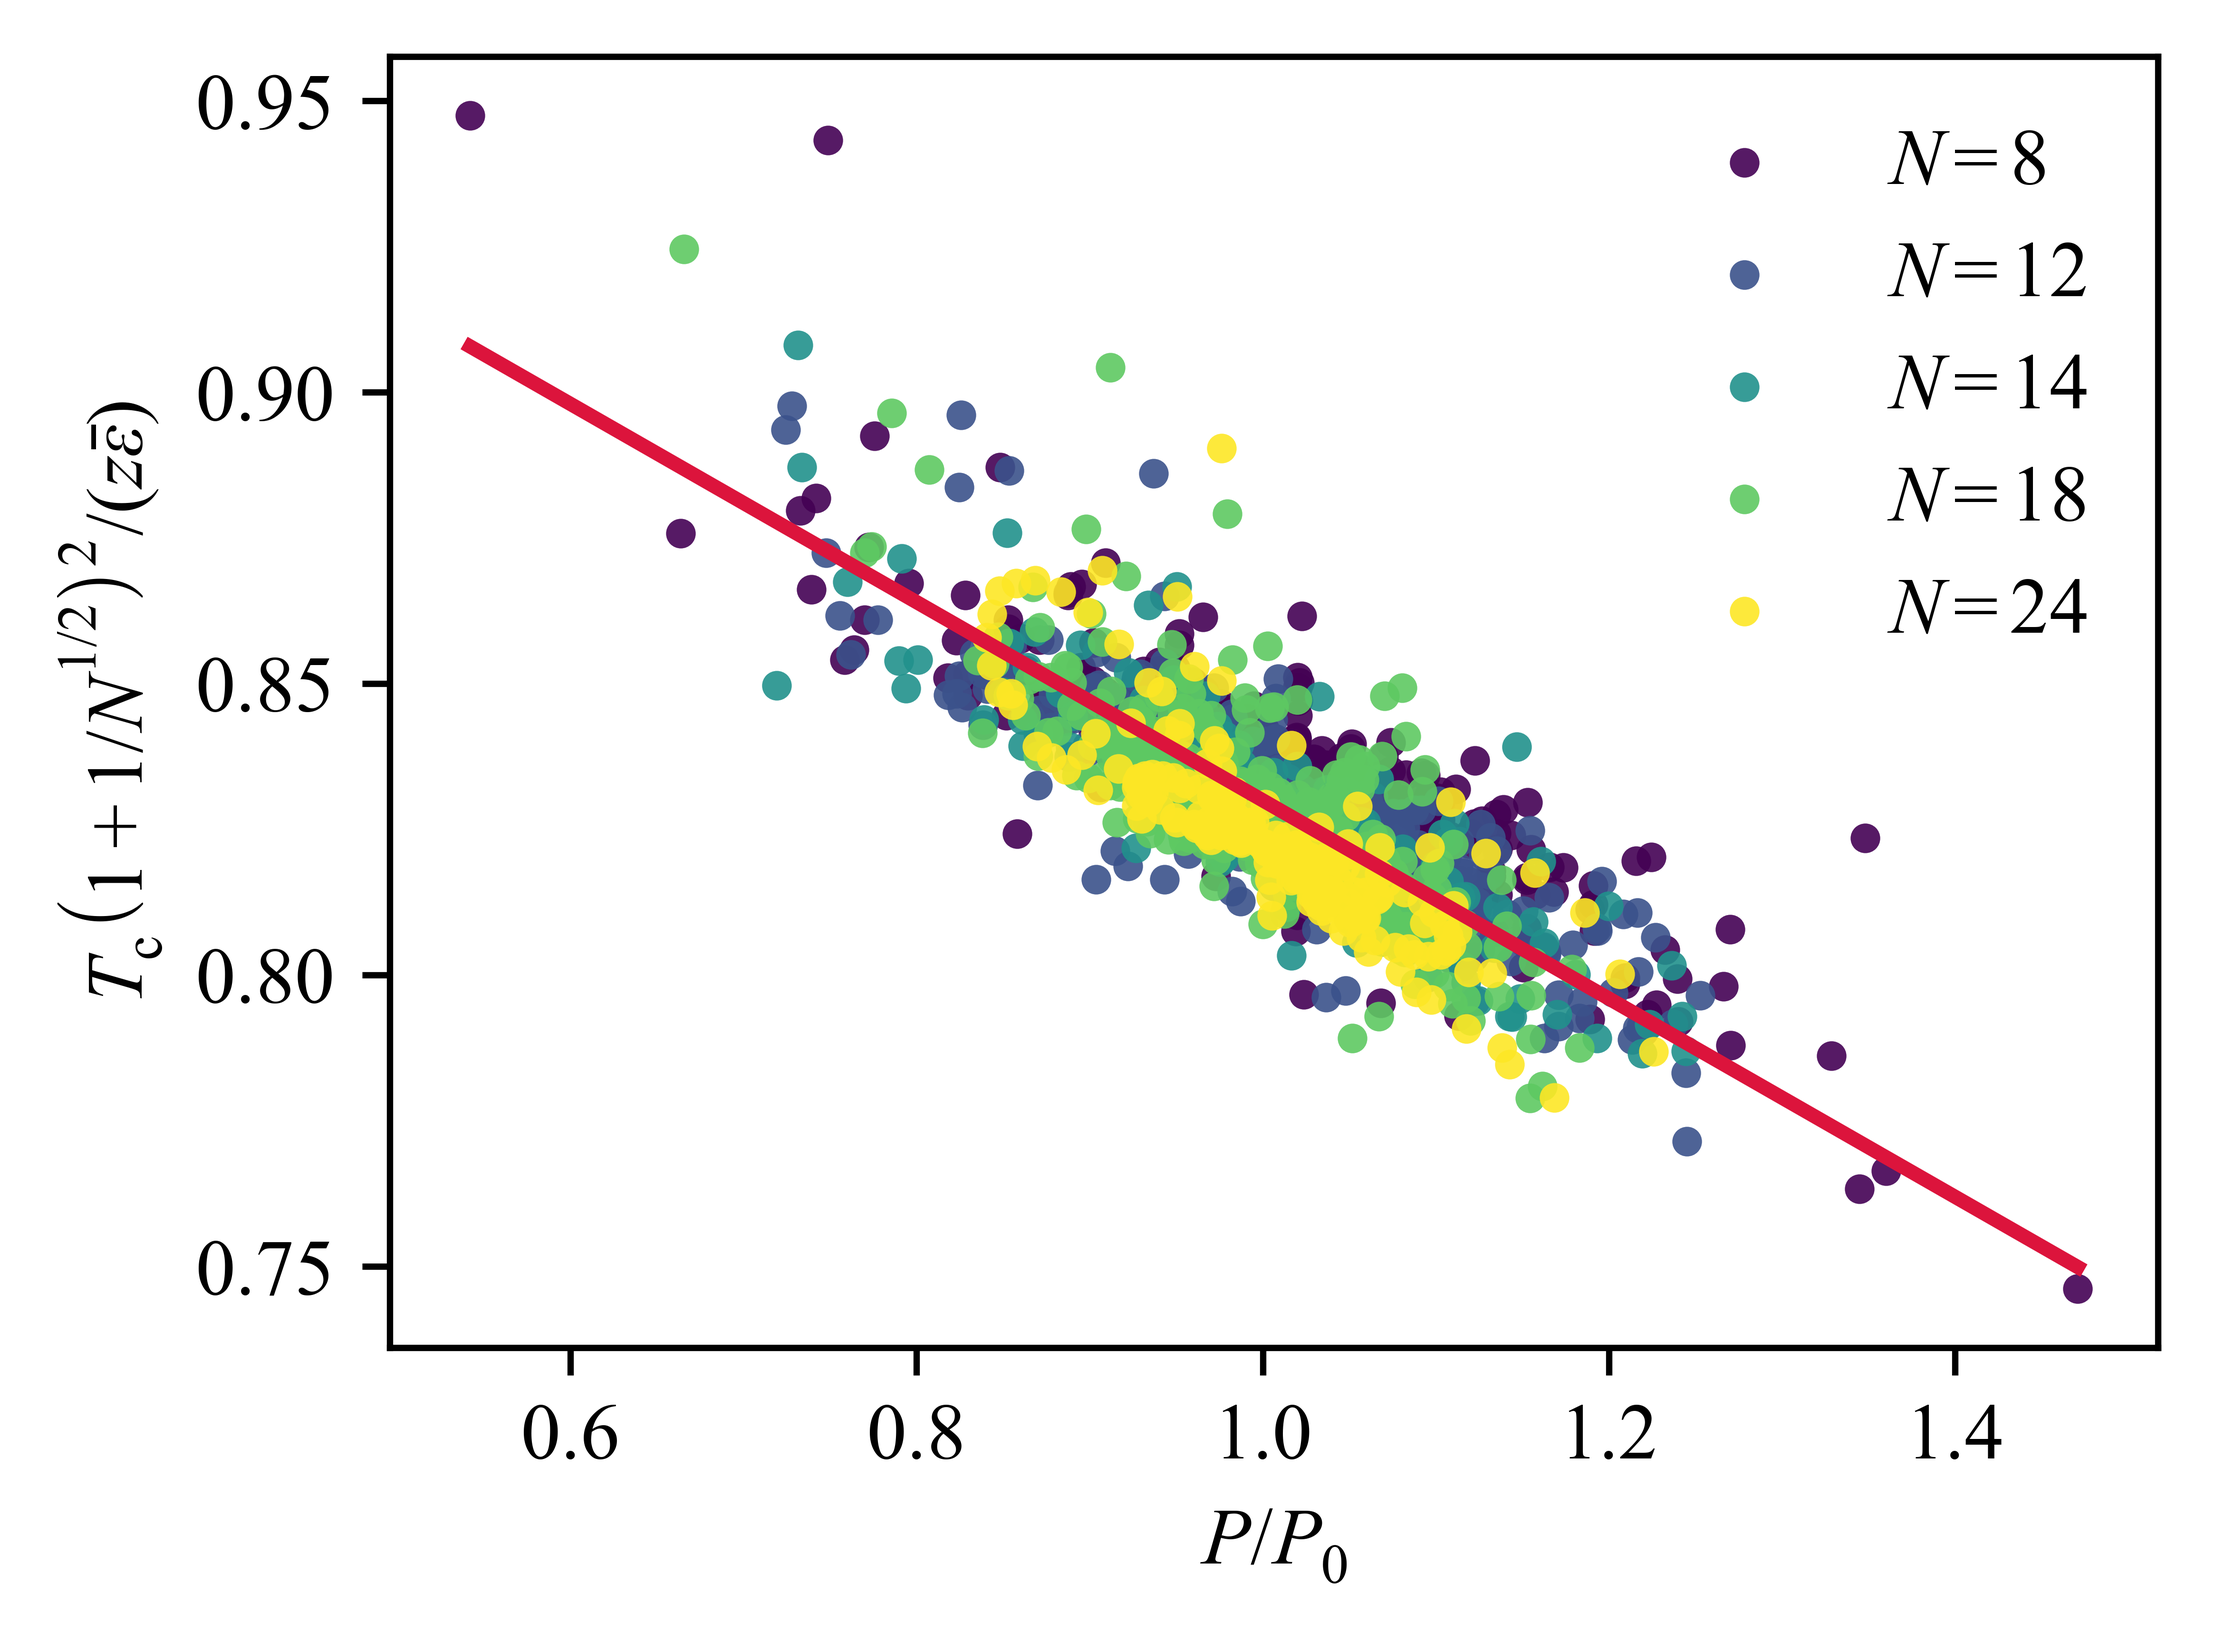
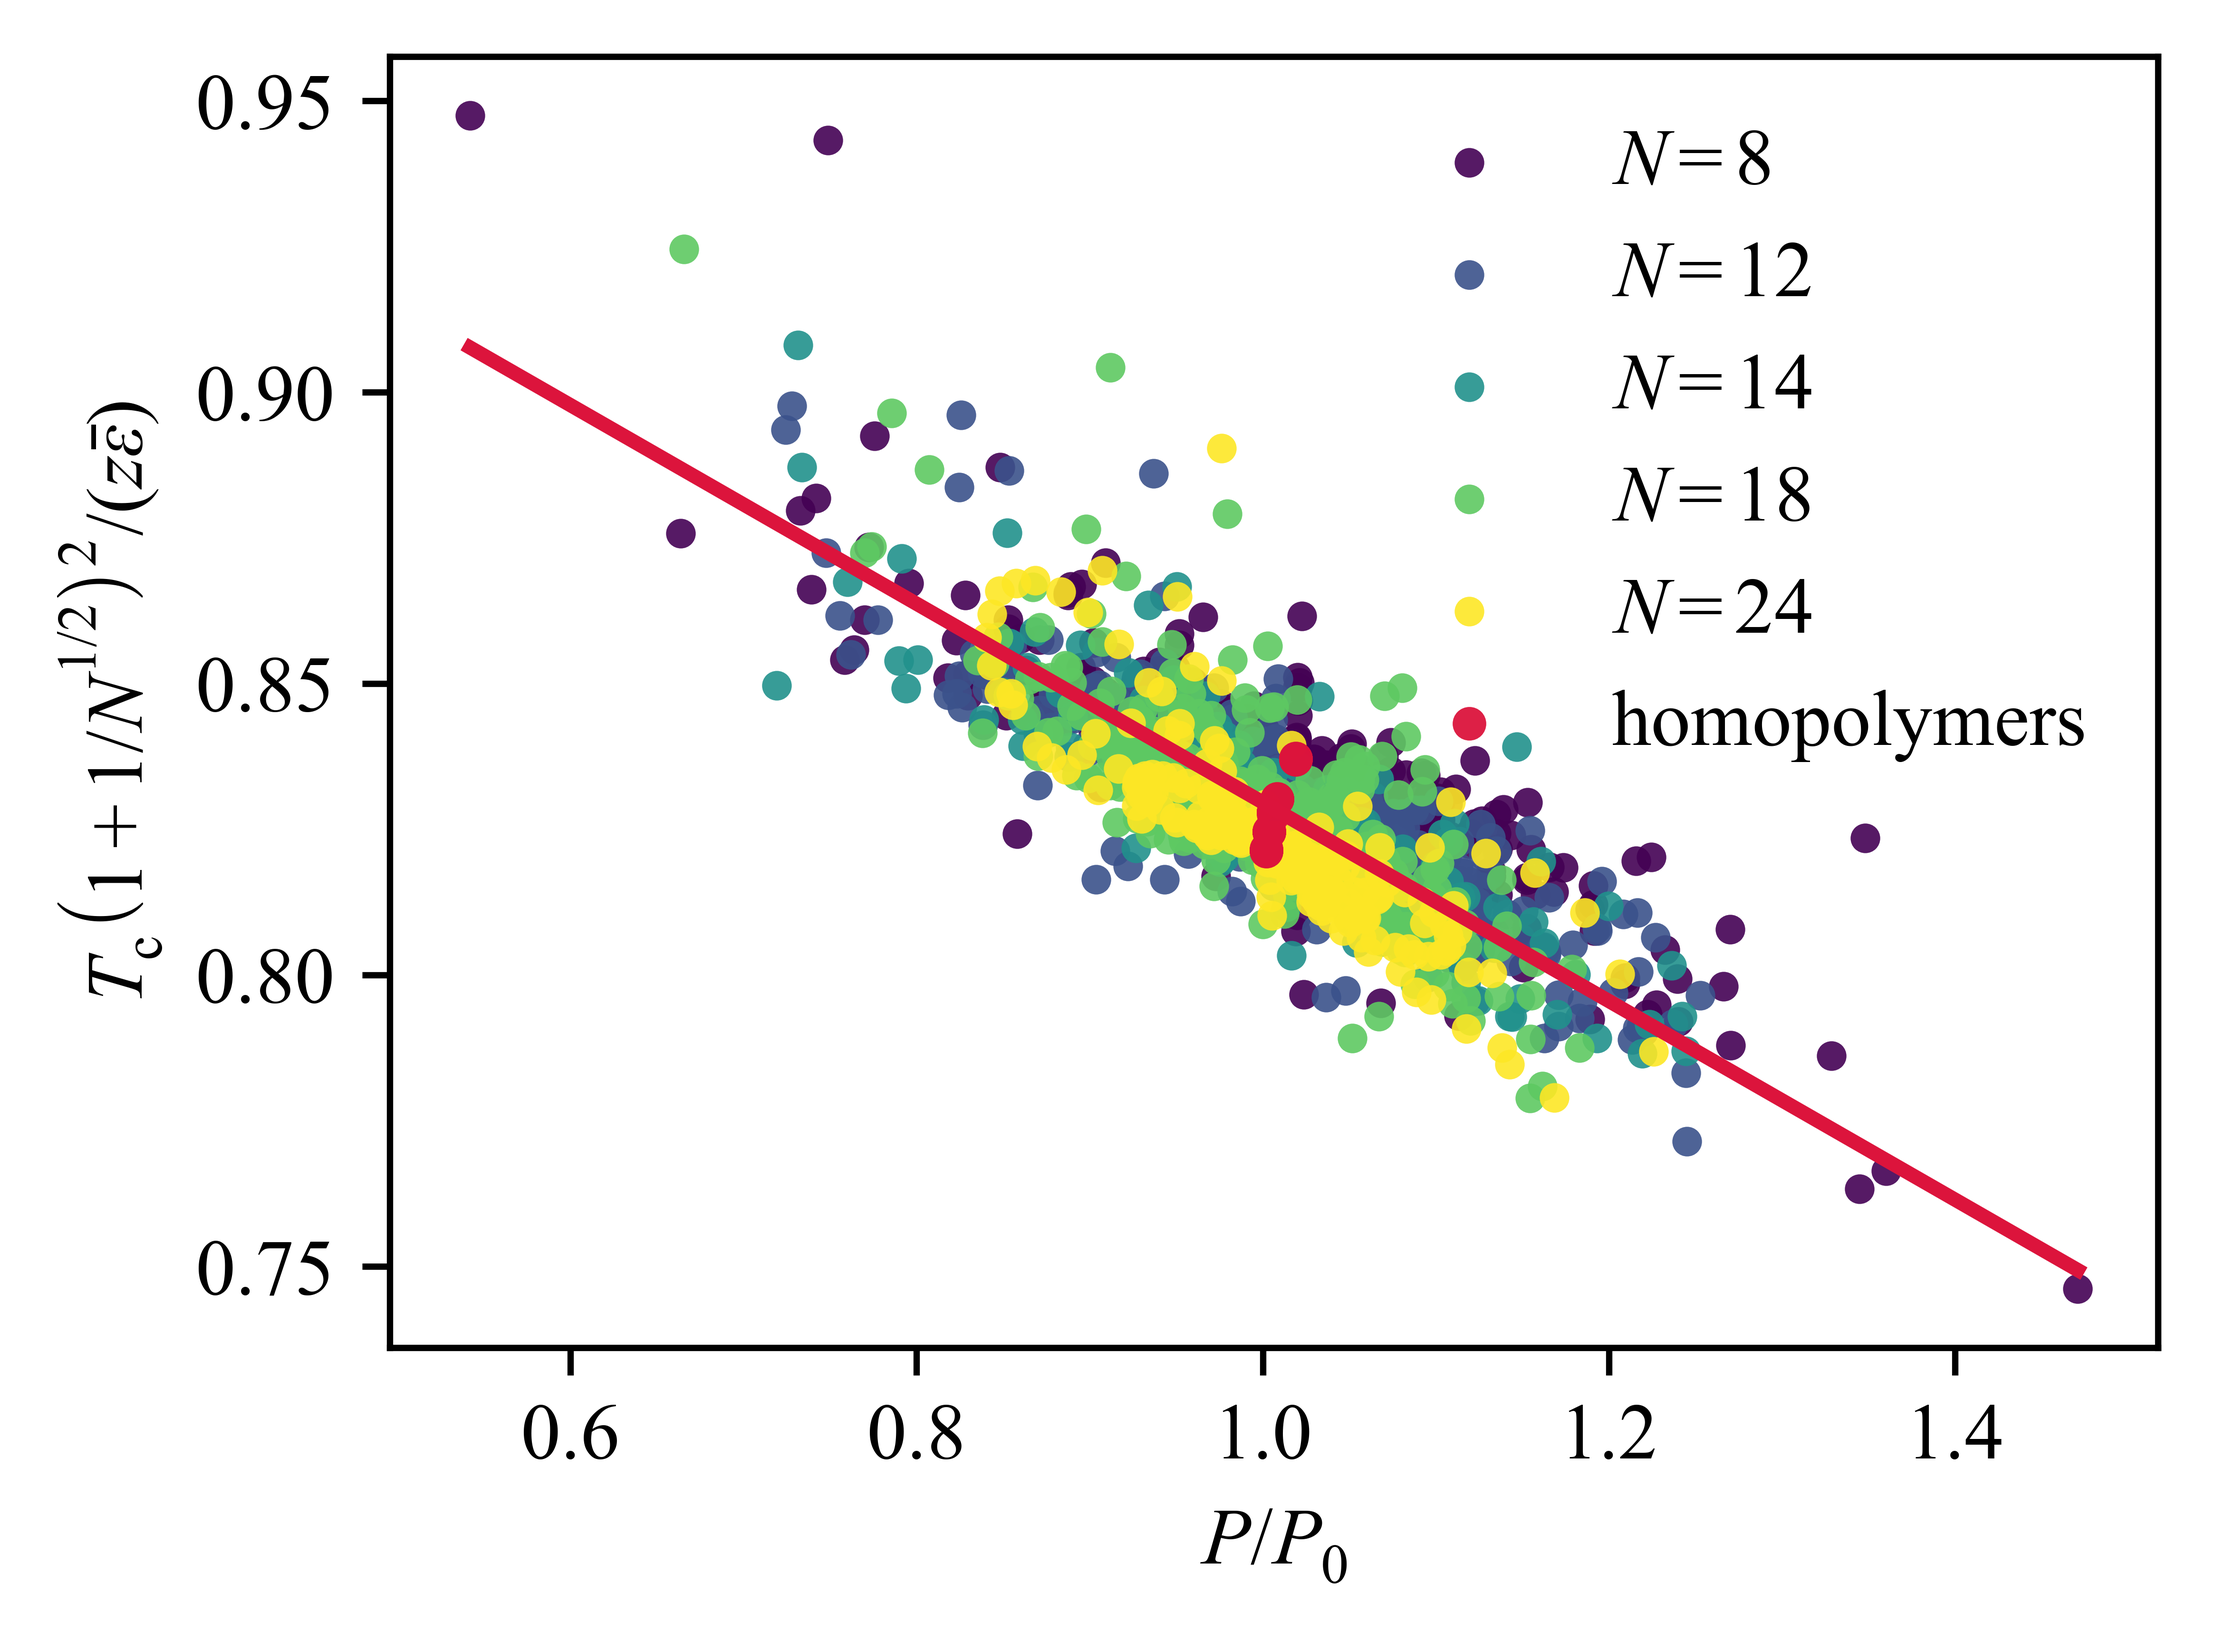
made the fit with only homopolymers

diff --git a/Fig3b.py b/Fig3b.py
@@ -90,6 +90,15 @@ def fit_slope_fixed_intercept(
     return float(m), float(R2)
 
 
+def classify_chain(seq: str) -> Tuple[bool, str]:
+    """Return (is_homopolymer, homotype) where homotype in {'H','T','mixed'}."""
+    sset = set(seq)
+    if len(sset) == 1:
+        t = next(iter(sset))
+        return True, t
+    return False, "mixed"
+
+
 # =====================================================================
 # Data processing
 # =====================================================================
@@ -110,6 +119,8 @@ def process_all_chains(
             N = len(seq)
             c_val = float(row["c"])
 
+            is_homo, homotype = classify_chain(seq)
+
             E = interaction_matrix_from_c(c_val)
             type_idx = np.array([0 if s == "H" else 1 for s in seq], dtype=int)
             S = E[type_idx[:, None], type_idx[None, :]]
@@ -129,6 +140,9 @@ def process_all_chains(
             phi_c = float(row.iloc[phi_col_index])
 
             all_rows.append({
+                "sequence": seq,
+                "is_homopolymer": bool(is_homo),
+                "homotype": homotype,          # 'H' or 'T' or 'mixed'
                 "length": int(N),
                 "interaction_sum": interaction_sum,
                 "delta_interaction_sum": delta_sum,
@@ -185,12 +199,17 @@ def plot_Tc_vs_P_scatter(df: pd.DataFrame) -> Tuple[float, float]:
     mask = np.isfinite(X) & np.isfinite(Y)
     X, Y, Nvals = X[mask], Y[mask], Nvals[mask]
 
+    df_plot = df.loc[mask].reset_index(drop=True)
+
     unique_N = np.sort(np.unique(Nvals))
     cmap = plt.get_cmap("viridis", len(unique_N))
     color_map = {N: cmap(i) for i, N in enumerate(unique_N)}
 
     fig, ax = plt.subplots(figsize=(4, 3))
 
+    # -----------------------------------------------------------------
+    # Base scatter: all sequences, colored by N
+    # -----------------------------------------------------------------
     for N in unique_N:
         mN = Nvals == N
         ax.scatter(
@@ -200,36 +219,73 @@ def plot_Tc_vs_P_scatter(df: pd.DataFrame) -> Tuple[float, float]:
             color=color_map[N],
             linewidths=0,
             label=rf"$N = {N}$",
+            zorder=2,
         )
 
+    # -----------------------------------------------------------------
+    # 🔴 Overlay homopolymers in red
+    # -----------------------------------------------------------------
+    homo_mask = df_plot["is_homopolymer"].values
+
+    ax.scatter(
+        X[homo_mask],
+        Y[homo_mask],
+        s=18,
+        color="crimson",
+        alpha=0.95,
+        linewidths=0,
+        zorder=4,
+        label="homopolymers",
+    )
+
     intercept = 1.0
+
+    # -----------------------------------------------------------------
+    # Fit: ALL data (solid crimson)
+    # -----------------------------------------------------------------
     fit_info = fit_slope_fixed_intercept(X, Y, intercept=intercept)
     slope = np.nan
 
     if fit_info is not None:
         slope, R2 = fit_info
         xs = np.linspace(X.min(), X.max(), 300)
-        ax.plot(xs, slope * xs + intercept, color="crimson", lw=1.8)
+        # ax.plot(xs, slope * xs + intercept, color="crimson", lw=1.8, zorder=3)
 
-        print("Fixed-intercept fit (y = m x + 1):")
+        print("Fixed-intercept fit (ALL data): y = m x + 1")
         print(f"  slope m = {slope:.6f}")
-        print(rf"  R^{2.0}     = {R2:.6f}")
+        print(rf"  R^2     = {R2:.6f}")
 
+    # -----------------------------------------------------------------
+    # Fit: HOMOPOLYMERS only (dashed crimson)
+    # -----------------------------------------------------------------
+    Xh = X[homo_mask]
+    Yh = Y[homo_mask]
+
+    homo_fit = fit_slope_fixed_intercept(Xh, Yh, intercept=intercept)
+    if homo_fit is not None:
+        slope_h, R2_h = homo_fit
+        xs = np.linspace(X.min(), X.max(), 300)
+        ax.plot(xs, slope_h * xs + intercept, color="crimson", lw=1.8, ls="-", zorder=5)
+
+        print("Fixed-intercept fit (HOMOPOLYMERS only): y = m x + 1")
+        print(f"  slope m = {slope_h:.6f}")
+        print(rf"  R^2     = {R2_h:.6f}")
+
+    # -----------------------------------------------------------------
+    # Cosmetics
+    # -----------------------------------------------------------------
     ax.set_xlabel(r"$P/P_0$")
     ax.set_ylabel(r"$T_\mathrm{c}\left(1 + 1/N^{1/2}\right)^2/(z\bar{\epsilon})$")
     ax.grid(False)
 
-    if len(unique_N) <= 6:
-        ax.legend(frameon=False)#, fontsize=8, loc="best")
-    else:
-        ax.legend(frameon=False)#, fontsize=7,
-                  #bbox_to_anchor=(1.02, 1), loc="upper left")
+    ax.legend(frameon=False)
 
     fig.tight_layout()
     plt.savefig("Fig3b.png", dpi=1200, bbox_inches="tight")
     plt.close(fig)
 
     return slope, intercept
+
 
 
 def plot_Tc_vs_P_smoothed_density_contourf(
@@ -265,7 +321,18 @@ def plot_Tc_vs_P_smoothed_density_contourf(
     cbar.set_label("log PDF (smoothed)")
 
     xs = np.linspace(X.min(), X.max(), 300)
+
+    # solid crimson: fit on all data
     ax.plot(xs, fit_slope * xs + fit_intercept, color="crimson", lw=1.4)
+
+    # dashed crimson: homopolymer-only fit (computed here too)
+    homo_mask_full = df["is_homopolymer"].values
+    Xh = df.loc[homo_mask_full, "P"].values
+    Yh = df.loc[homo_mask_full, "Tc"].values
+    homo_fit = fit_slope_fixed_intercept(Xh, Yh, intercept=fit_intercept)
+    if homo_fit is not None:
+        slope_h, _ = homo_fit
+        ax.plot(xs, slope_h * xs + fit_intercept, color="crimson", lw=1.4, ls="-")
 
     ax.set_xlabel(r"$P/P_0$")
     ax.set_ylabel(r"$T_\mathrm{c}\left(1 + 1/N^{1/2}\right)^2/(z\bar{\epsilon})$")
